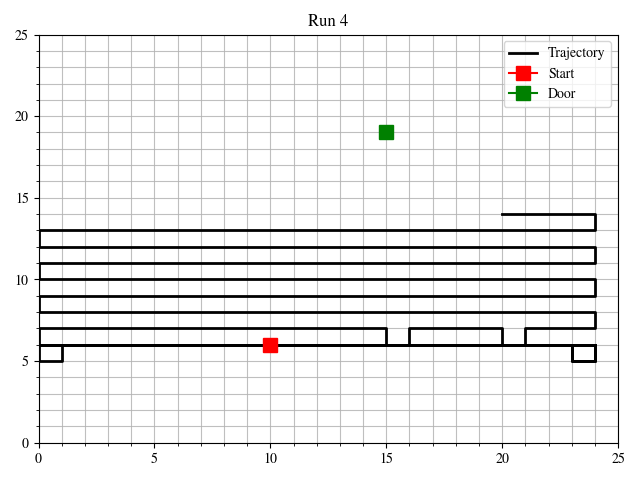
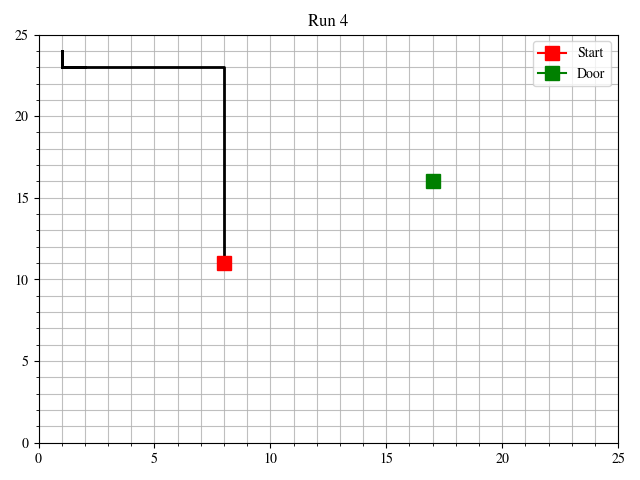
u = 0,0 possible, update to entropy

diff --git a/HW4/Problem 2/HW4_2.py b/HW4/Problem 2/HW4_2.py
@@ -6,6 +6,8 @@ import plotting
 plt.rcParams['mathtext.fontset'] = 'stix'
 plt.rcParams['font.family'] = 'STIXGeneral'
 
+### Belief ###
+
 def update_post(post, meas, pmeas1, loc, gg):
     if meas == 1:
         pmeas = pmeas1
@@ -14,32 +16,33 @@ def update_post(post, meas, pmeas1, loc, gg):
     
     # Define possible movements depending whether on border or not
     if loc[-1,0] == 0 and 1 <= loc[-1,1] <= gg-2:
-        update_loc = np.array([[1, 0], [0, 1], [0, -1]])
+        poss_u = np.array([[1, 0], [0, 1], [0, -1], [0, 0]])
     elif loc[-1,0] == gg-1 and 1 <= loc[-1,1] <= gg-2:
-        update_loc = np.array([[-1, 0], [0, 1], [0, -1]])
+        poss_u = np.array([[-1, 0], [0, 1], [0, -1], [0, 0]])
     elif 1 <= loc[-1,0] <= gg-2 and loc[-1,1] == 0:
-        update_loc = np.array([[1, 0], [-1, 0], [0, 1]])
+        poss_u = np.array([[1, 0], [-1, 0], [0, 1], [0, 0]])
     elif 1 <= loc[-1,0] <= gg-2 and loc[-1,1] == gg-1:
-        update_loc = np.array([[1, 0], [-1, 0], [0, -1]])
+        poss_u = np.array([[1, 0], [-1, 0], [0, -1], [0, 0]])
 
     elif loc[-1,0] == 0 and loc[-1,1] == 0:
-        update_loc = np.array([[1, 0], [0, 1]])
+        poss_u = np.array([[1, 0], [0, 1], [0, 0]])
     elif loc[-1,0] == 0 and loc[-1,1] == gg-1:
-        update_loc = np.array([[1, 0], [0, -1]])
+        poss_u = np.array([[1, 0], [0, -1], [0, 0]])
     elif loc[-1,0] == gg-1 and loc[-1,1] == 0:
-        update_loc = np.array([[-1, 0], [0, 1]])
+        poss_u = np.array([[-1, 0], [0, 1], [0, 0]])
     elif loc[-1,0] == gg-1 and loc[-1,1] == gg-1:
-        update_loc = np.array([[-1, 0], [0, -1]])
+        poss_u = np.array([[-1, 0], [0, -1], [0, 0]])
 
     else:
-        update_loc = np.array([[1, 0], [-1, 0], [0, 1], [0, -1]])
+        poss_u = np.array([[1, 0], [-1, 0], [0, 1], [0, -1], [0, 0]])
 
-    for mov in update_loc:
-        pr0 = get_pr0(gg, loc, mov[0], mov[1])
-        L = get_L(meas, mov[0], mov[1])
-        post[int(loc[-1,0]+mov[0]), int(loc[-1,1]+mov[1])] = L * pr0 / pmeas
+    for u in poss_u:
+        pr0 = get_pr0(gg, loc, u[0], u[1])
+        L = get_L(meas, u[0], u[1])
+        post[int(loc[-1,0]+u[0]), int(loc[-1,1]+u[1])] = L * pr0 / pmeas
 
-    return post, update_loc
+    post = post / np.sum(post) # normalize
+    return post, poss_u
 
 def get_L(meas, i, j):
     if meas == 1:
@@ -55,36 +58,40 @@ def get_L(meas, i, j):
     return L
 
 def get_pr0(gg, loc, i, j):
-    #num_visit = len(np.where(loc == [loc[-1,0]+i, loc[-1,1]+j])[0]) #TODO: error in this formulation
+    #num_visit = len(np.where(loc == [loc[-1,0]+i, loc[-1,1]+j])[0]) #error in commented out part
     for k in range(len(loc)):
         if loc[k,0] == loc[-1,0]+i and loc[k,1] == loc[-1,1]+j:
             return 0
     return 1/(gg**2 - len(np.unique(loc, axis=0)))
 
+### u ###
+
 def get_u(post, prior, loc, S, possib_u, gg, meas_prob):
-    EdS = float('inf')
     min_u = np.array([0, 0])
-    min_EdS = float('inf')
+    max_EdS = 0
     for u in possib_u:
         rj = loc[-1]+u
         sim_loc = np.vstack((loc, rj))
-        EdS = get_EdS(post, prior, sim_loc, S, gg, meas_prob)
-        #print(EdS)
-        if EdS < min_EdS:
-            min_EdS = EdS
+        pmeas1 = meas_prob[int(rj[0]),int(rj[1])]
+        EdS = get_EdS(post, sim_loc, S, gg, pmeas1)
+        #print("Entropy reduction in " + str(u) + " is equal to: " + str(EdS))
+        if EdS > max_EdS:
+            max_EdS = EdS
             min_u = u
+    #print("Chose " + str(min_u))
     return min_u
 
-def get_EdS(post, prior, sim_loc, S, gg, meas_prob):
-    rj = sim_loc[-1]
-    EdS = prior[int(rj[0]), int(rj[1])]*(-S) + (1-prior[int(rj[0]), int(rj[1])])*get_EdS_cond(post, sim_loc, gg, meas_prob, S)
-    return EdS
+### Entropy ###
 
-def get_EdS_cond(post, sim_loc, gg, meas_prob, S):
-    sim_meas = (np.random.random() < meas_prob[int(sim_loc[-1, 0]),int(sim_loc[-1, 1])])
-    post, update_loc = update_post(post, sim_meas, meas_prob[int(sim_loc[-1, 0]),int(sim_loc[-1, 1])], sim_loc, gg)
-    S2 = get_S(gg, post)
-    return S2 - S
+def get_EdS(post, sim_loc, S, gg, pmeas1):
+    # Get entropy for hypothetical measurement 1
+    post1 = update_post(post, 1, pmeas1, sim_loc, gg)[0]
+    S1 = get_S(gg, post1)
+    # Get entropy for hypothetical measurement 0
+    post0 = update_post(post, 0, pmeas1, sim_loc, gg)[0]
+    S0 = get_S(gg, post0)
+
+    return S -  pmeas1 * S1 - (1-pmeas1) * S0 # return the entropy reduction (--> the bigger the better)
 
 def get_S(gg, post):
     S = 0
@@ -94,6 +101,8 @@ def get_S(gg, post):
                 S -= post[i,j] * np.log(post[i,j])
     return S
 
+
+### Main ###
 
 def main():
     ### Initialize
@@ -119,25 +128,25 @@ def main():
         for i in range(gg):
             for j in range(gg):
                 if (i == door[0] and j == door[1]):
-                    meas_prob[i,j] = 1
+                    meas_prob[i,j] = 1.0
                 elif (i == door[0]-1 or i == door[0]+1 and door[1]-1 <= j <= door[1]+1):
-                    meas_prob[i,j] = 1/2
+                    meas_prob[i,j] = 1.0/2.0
                 elif (i == door[0]-2 or i == door[0]+2 and door[1]-2 <= j <= door[1]+2):
-                    meas_prob[i,j] = 1/3
+                    meas_prob[i,j] = 1.0/3.0
                 elif (i == door[0]-3 or i == door[0]+3 and door[1]-3 <= j <= door[1]+3):
-                    meas_prob[i,j] = 1/4
+                    meas_prob[i,j] = 1.0/4.0
                 else:
                     meas_prob[i,j] = 0.01
 
         ### Search
         print(S)
         i = 0
-        while S != 0 and i < 500:
+        while S > 1 and i <1000:
             meas = (np.random.random() < meas_prob[int(loc[-1, 0]),int(loc[-1, 1])])
-            post, update_loc = update_post(post, meas, meas_prob[int(loc[-1, 0]),int(loc[-1, 1])], loc, gg)
-            S = get_S(gg, post) # S != 0 if on door
+            post, poss_u = update_post(post, meas, meas_prob[int(loc[-1, 0]),int(loc[-1, 1])], loc, gg)
+            S = get_S(gg, post)
             print(S)
-            u = get_u(post, prior, loc, S, update_loc, gg, meas_prob) ### # of size (2,1): choose direction with highest expected entropy reduction
+            u = get_u(post, prior, loc, S, poss_u, gg, meas_prob) ### # of size (2,1): choose direction with highest expected entropy reduction
             loc = np.vstack((loc, loc[-1] + u))
             prior = post
             #print(loc[-1])
@@ -150,5 +159,4 @@ def main():
 if __name__ == "__main__":
     main()
 
-
-# S goes to infitinity: Look into values of posterior @ 4 update points
+# sometimes Entropy still becomes NaN ?

diff --git a/HW4/Problem 2/plotting.py b/HW4/Problem 2/plotting.py
@@ -5,6 +5,12 @@ import numpy as np
 plt.rcParams['mathtext.fontset'] = 'stix'
 plt.rcParams['font.family'] = 'STIXGeneral'
 
+def update_line(line, cmap, norm):
+    # Update the color of each point in the trajectory
+    for i, line_segment in enumerate(line):
+        line_segment.set_color(cmap(norm(i)))
+    return line
+
 def plot_trajectory(gg, door, loc, s):
     fig, axs = plt.subplots()
     axs.set_xlim([0, gg])
@@ -18,7 +24,8 @@ def plot_trajectory(gg, door, loc, s):
     axs.set_yticks(minor_ticks, minor=True)
     axs.grid(which='both', alpha=0.8)
 
-    axs.plot(loc[:, 0], loc[:, 1], color='k', linewidth='2', label='Trajectory')
+    axs.plot(loc[:, 0], loc[:, 1], color='k', linewidth='2')[0]
+
     axs.plot(loc[0, 0], loc[0, 1], color='r', marker='s', markersize=10, label='Start')
     axs.plot(door[0], door[1], color='g', marker='s', markersize=10, label='Door')
 
